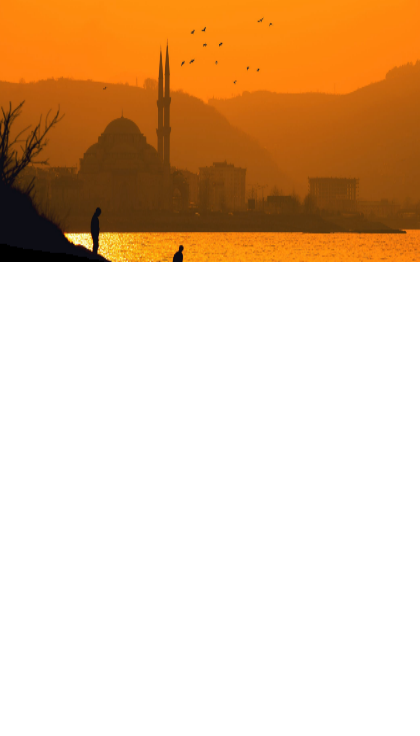
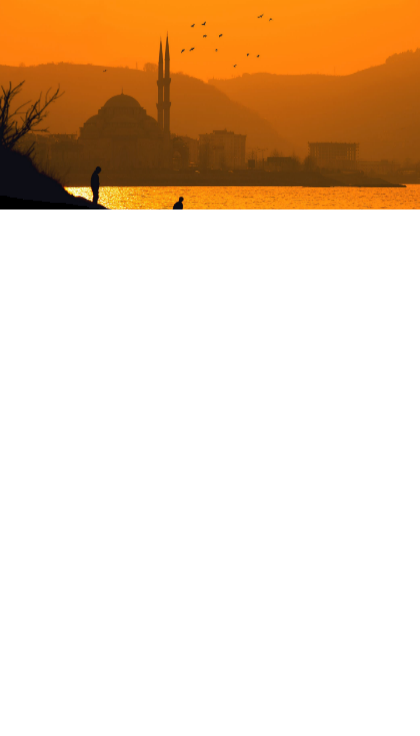
background image fixed

Changed region(s): [[0.0, 0.0312, 1.0, 0.375], [0.4643, 0.0312, 0.4952, 0.0625]]

diff --git a/client/src/pages/Profile/style.css b/client/src/pages/Profile/style.css
@@ -148,11 +148,9 @@ canvas {
     .imageContainer {
         position: absolute;
         z-index:-1;
-        /* width:100%; */
         height:100%;
         left:0px;
         right:0px;
-        /* top:50px; */
         background:url(img/human-sm.png) no-repeat;
         background-size:cover;
     }
